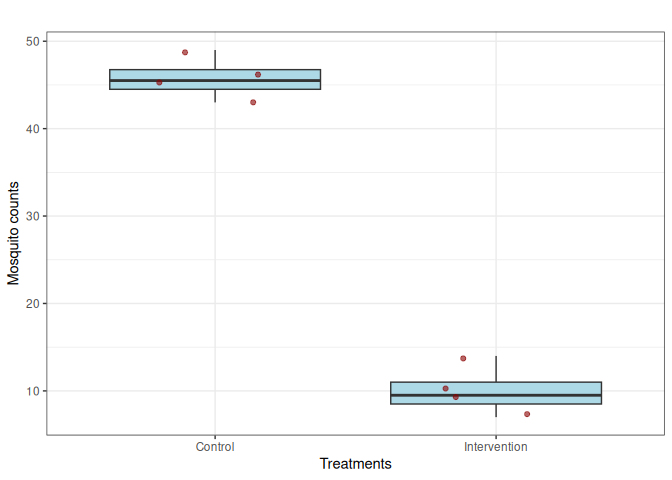
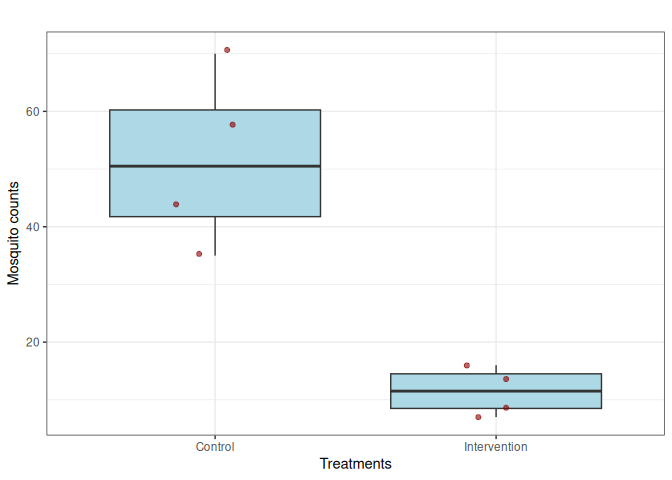
Auto-render README.Rmd

diff --git a/README.md b/README.md
@@ -133,14 +133,14 @@ chamber/replicate.
     sim.mosquitoes <- sim.mosquitoes[, c(-4,-5,-6)]
     sim.mosquitoes
     #>   replicates intvn chamber mosquito.count.fixed mosquito.count.random
-    #> 1          1     0     0-1                   47                    69
-    #> 2          2     0     0-2                   57                    76
-    #> 3          3     0     0-3                   43                    39
-    #> 4          4     0     0-4                   50                    55
-    #> 5          1     1     1-1                   16                     5
-    #> 6          2     1     1-2                   12                    13
-    #> 7          3     1     1-3                    8                    14
-    #> 8          4     1     1-4                   17                     2
+    #> 1          1     0     0-1                   40                    60
+    #> 2          2     0     0-2                   49                    67
+    #> 3          3     0     0-3                   56                    69
+    #> 4          4     0     0-4                   51                    21
+    #> 5          1     1     1-1                    8                     7
+    #> 6          2     1     1-2                    9                    20
+    #> 7          3     1     1-3                   10                    13
+    #> 8          4     1     1-4                   10                    12
 
 1.  Plot the simulated mosquitoes. This function plots a box plot with
     an option to jitter points if jitter=TURE and without jittering if
@@ -181,8 +181,8 @@ chamber/replicate.
 
     #output the p-values
     pvalue
-    #>       pvalue 
-    #> 0.0001484157
+    #>     pvalue 
+    #> 0.00222765
 
 V. Since power cannot be estimated from a single simulation, there is a
 need to simulate multiple data sets and estimate power. Now you can
@@ -253,10 +253,10 @@ only TRUE or FALSE as explained in (ii) above.
     #print the power results for each number of chambers per treatment
     round(power.df,2)
     #>   n.ch.per.trt power ci.lower ci.upper
-    #> 1            2  0.97     0.91     0.99
-    #> 2            4  0.99     0.95     1.00
-    #> 3            6  1.00     0.96     1.00
-    #> 4            8  1.00     0.96     1.00
+    #> 1            2  0.98     0.93        1
+    #> 2            4  1.00     0.96        1
+    #> 3            6  1.00     0.96        1
+    #> 4            8  1.00     0.96        1
 
 1.  Plot the resulting power vs. number of chambers per treatment
 
@@ -341,24 +341,24 @@ only TRUE or FALSE as explained in (ii) above.
     # print power estimates
     results
     #>    n.ch.per.trt intvn.effect power   ci.lower  ci.upper
-    #> 1             2          0.0  0.26 0.17739444 0.3573121
-    #> 2             4          0.0  0.10 0.04900469 0.1762226
-    #> 3             6          0.0  0.07 0.02860529 0.1389197
-    #> 4             8          0.0  0.05 0.01643188 0.1128349
-    #> 5             2          0.4  0.50 0.39832113 0.6016789
-    #> 6             4          0.4  0.48 0.37900548 0.5822102
-    #> 7             6          0.4  0.51 0.40803633 0.6113558
-    #> 8             8          0.4  0.66 0.55846673 0.7517765
-    #> 9             2          0.5  0.60 0.49720915 0.6967052
-    #> 10            4          0.5  0.68 0.57923314 0.7697801
-    #> 11            6          0.5  0.83 0.74182459 0.8977351
-    #> 12            8          0.5  0.86 0.77627202 0.9212946
-    #> 13            2          0.6  0.68 0.57923314 0.7697801
-    #> 14            4          0.6  0.78 0.68608035 0.8566964
-    #> 15            6          0.6  0.97 0.91482395 0.9937700
+    #> 1             2          0.0  0.28 0.19479363 0.3786670
+    #> 2             4          0.0  0.11 0.05620702 0.1883011
+    #> 3             6          0.0  0.11 0.05620702 0.1883011
+    #> 4             8          0.0  0.12 0.06356890 0.2002357
+    #> 5             2          0.4  0.45 0.35032023 0.5527198
+    #> 6             4          0.4  0.45 0.35032023 0.5527198
+    #> 7             6          0.4  0.59 0.48714420 0.6873800
+    #> 8             8          0.4  0.69 0.58968545 0.7787112
+    #> 9             2          0.5  0.52 0.41778977 0.6209945
+    #> 10            4          0.5  0.67 0.56882725 0.7608015
+    #> 11            6          0.5  0.77 0.67514127 0.8482684
+    #> 12            8          0.5  0.88 0.79976432 0.9364311
+    #> 13            2          0.6  0.66 0.55846673 0.7517765
+    #> 14            4          0.6  0.86 0.77627202 0.9212946
+    #> 15            6          0.6  0.88 0.79976432 0.9364311
     #> 16            8          0.6  0.98 0.92961607 0.9975687
-    #> 17            2          0.8  0.95 0.88716509 0.9835681
-    #> 18            4          0.8  0.99 0.94554061 0.9997469
+    #> 17            2          0.8  0.97 0.91482395 0.9937700
+    #> 18            4          0.8  1.00 0.96378331 1.0000000
     #> 19            6          0.8  1.00 0.96378331 1.0000000
     #> 20            8          0.8  1.00 0.96378331 1.0000000
 
